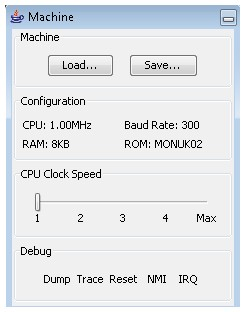
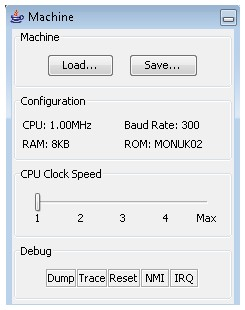
Updates for better operation on a Mac

diff --git a/docs/operation.html b/docs/operation.html
@@ -31,7 +31,7 @@ By default the standard platform look-and-feel will be used.
 Other look-and-feels that may be available (depending on operating system
 and Java version) include: <code>metal</code>, <code>steel</code>, 
 <code>ocean</code>, <code>windows</code>, <code>classic</code>, 
-<code>motif</code>, <code>gtk</code>, <code>aqua</code> and <code>nimbus</code>.</dd>
+<code>motif</code>, <code>gtk</code>, <code>mac</code> and <code>nimbus</code>.</dd>
 <dt><code>-c, -configuration <i>configFile</i></code></dt>
 <dd>The name of a properties file containing system configuration properties.</dd>
 <dt><code>-p, -properties <i>systemProps</i></code></dt>

diff --git a/src/uk101/view/component/DebugPanel.java b/src/uk101/view/component/DebugPanel.java
@@ -9,6 +9,7 @@ import java.awt.GridLayout;
 import java.awt.event.ActionListener;
 
 import javax.swing.AbstractButton;
+import javax.swing.BorderFactory;
 import javax.swing.JPanel;
 import javax.swing.JToolBar;
 import javax.swing.UIManager;
@@ -37,6 +38,7 @@ public class DebugPanel extends JPanel {
             JToolBar dt = new JToolBar(JToolBar.HORIZONTAL);
             dt.setFloatable(false);
             for (AbstractButton b : buttons) {
+                b.setBorder(BorderFactory.createEtchedBorder());
                 b.addActionListener(listener);
                 dt.add(b);
             }

diff --git a/src/uk101/Main.java b/src/uk101/Main.java
@@ -171,7 +171,7 @@ public class Main implements Runnable {
         
         // Hack to try to set the dock icon on a Mac
         try {
-            Class<?> ac = Class.forName("com.mac.eawt.Application");
+            Class<?> ac = Class.forName("com.apple.eawt.Application");
             Method ga = ac.getMethod("getApplication");
             Method si = ac.getMethod("setDockIconImage", Image.class);
             Image icon48 = Toolkit.getDefaultToolkit().createImage(Main.class.getResource("icon/uk101-48.png"));

diff --git a/src/uk101/view/ComputerView.java b/src/uk101/view/ComputerView.java
@@ -64,7 +64,7 @@ public class ComputerView extends JDesktopPane implements ActionListener {
         add(keyboard);  // they appear on top.
 
         // Create a file chooser dialog for the load/save image function
-        imageSelect = new JFileChooser(new File("."));
+        imageSelect = new JFileChooser(new File(".").getAbsolutePath());
         imageSelect.setDialogTitle("UK101 Machine Image");
         imageSelect.setFileFilter(new FileFilter() {
             public boolean accept(File f) {

diff --git a/src/uk101/view/CassetteView.java b/src/uk101/view/CassetteView.java
@@ -97,7 +97,7 @@ public class CassetteView  extends JInternalFrame implements ActionListener, Ite
         stop.button.setSelected(true);
 
         // File selection dialog
-        select = new JFileChooser(new File("."));
+        select = new JFileChooser(new File(".").getAbsolutePath());
         select.setDialogTitle(getTitle() + " - Select Tape");
 
         JButton open = new JButton("Open...");
